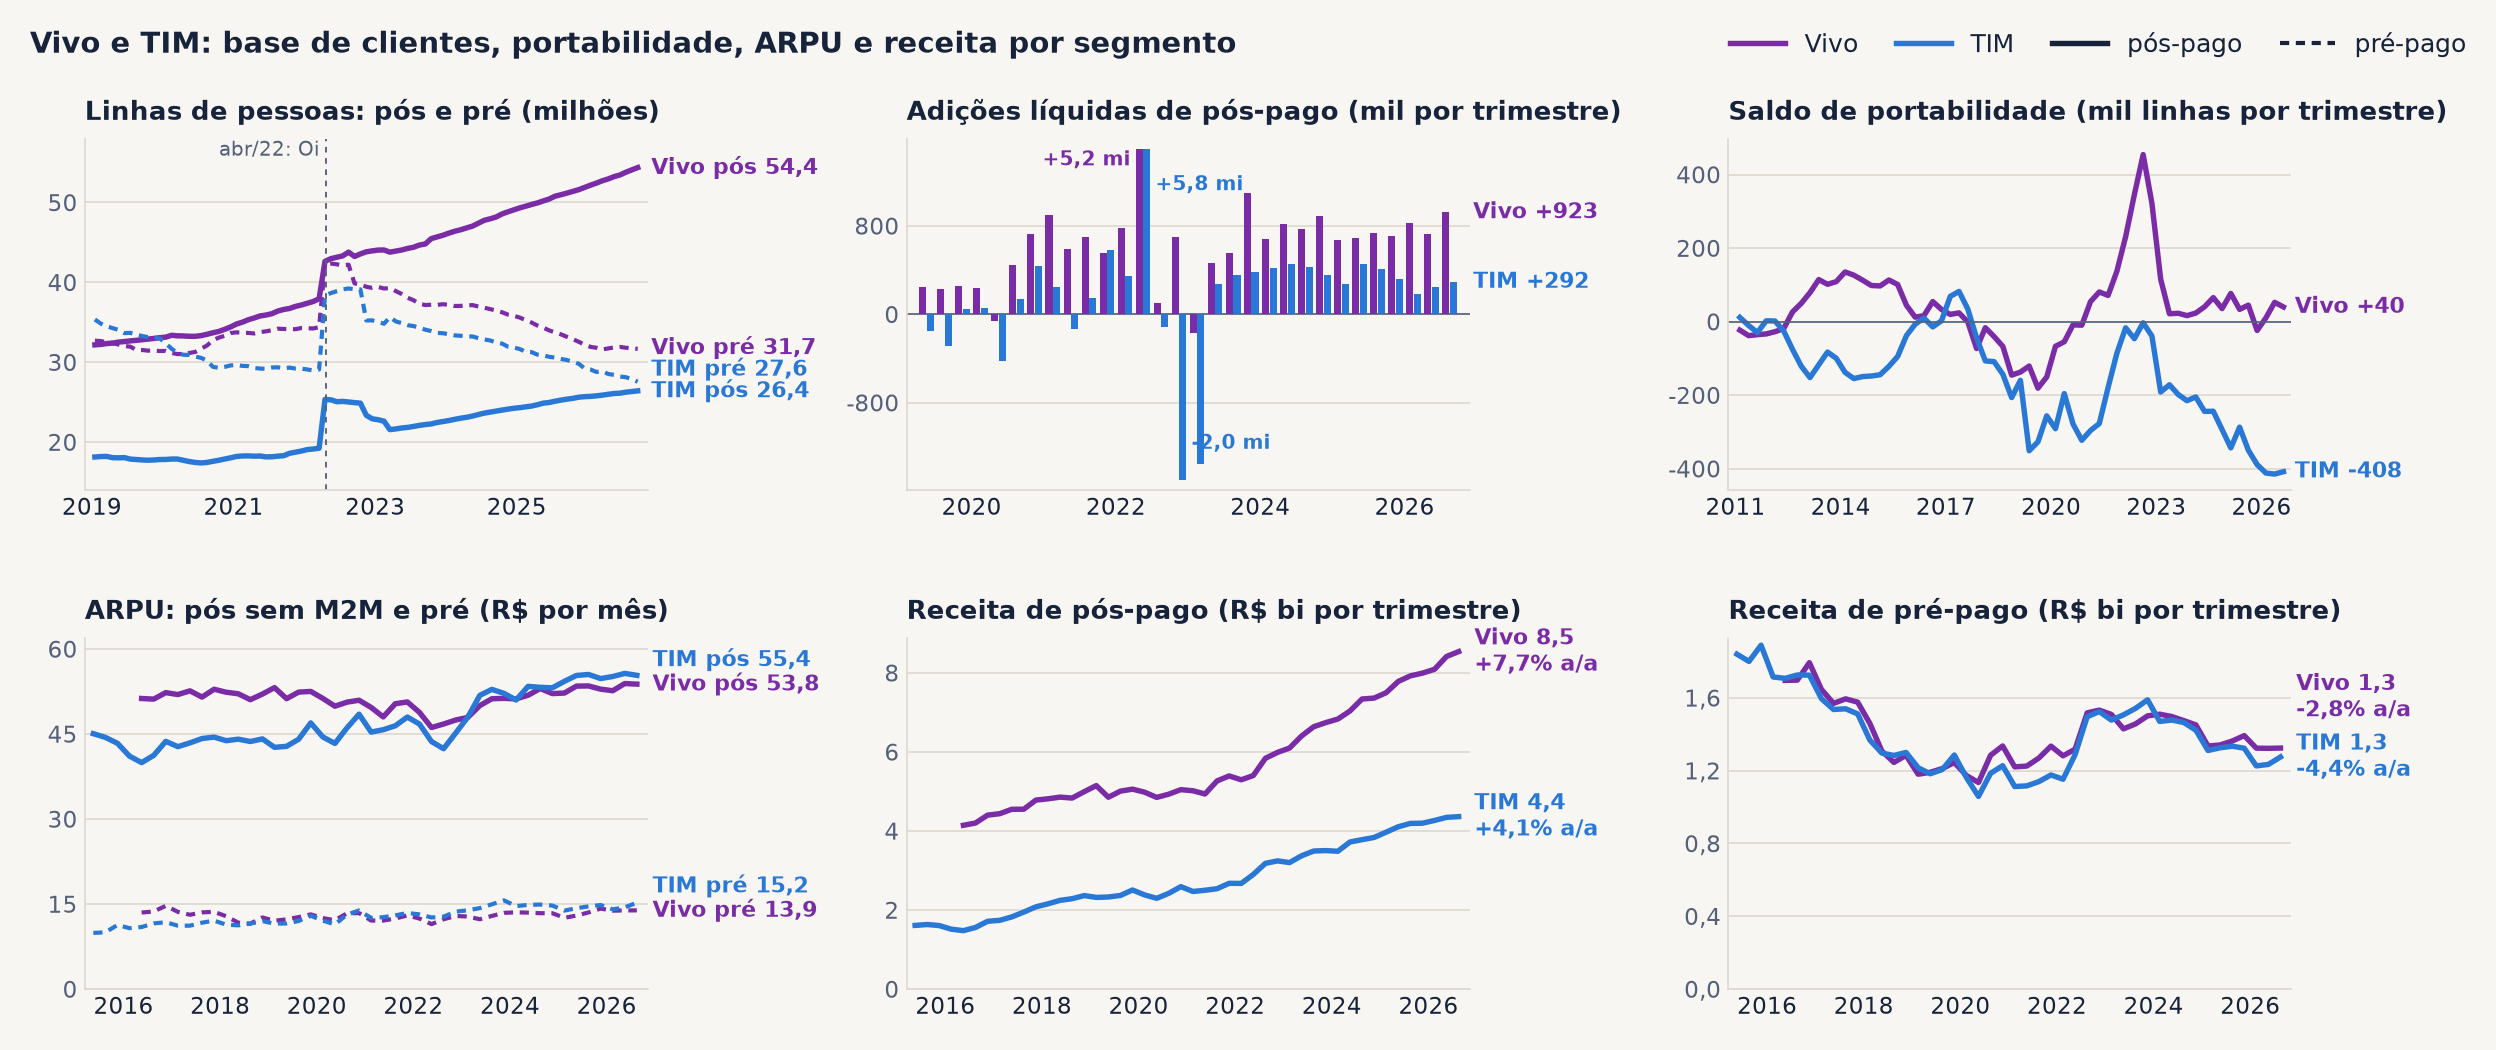
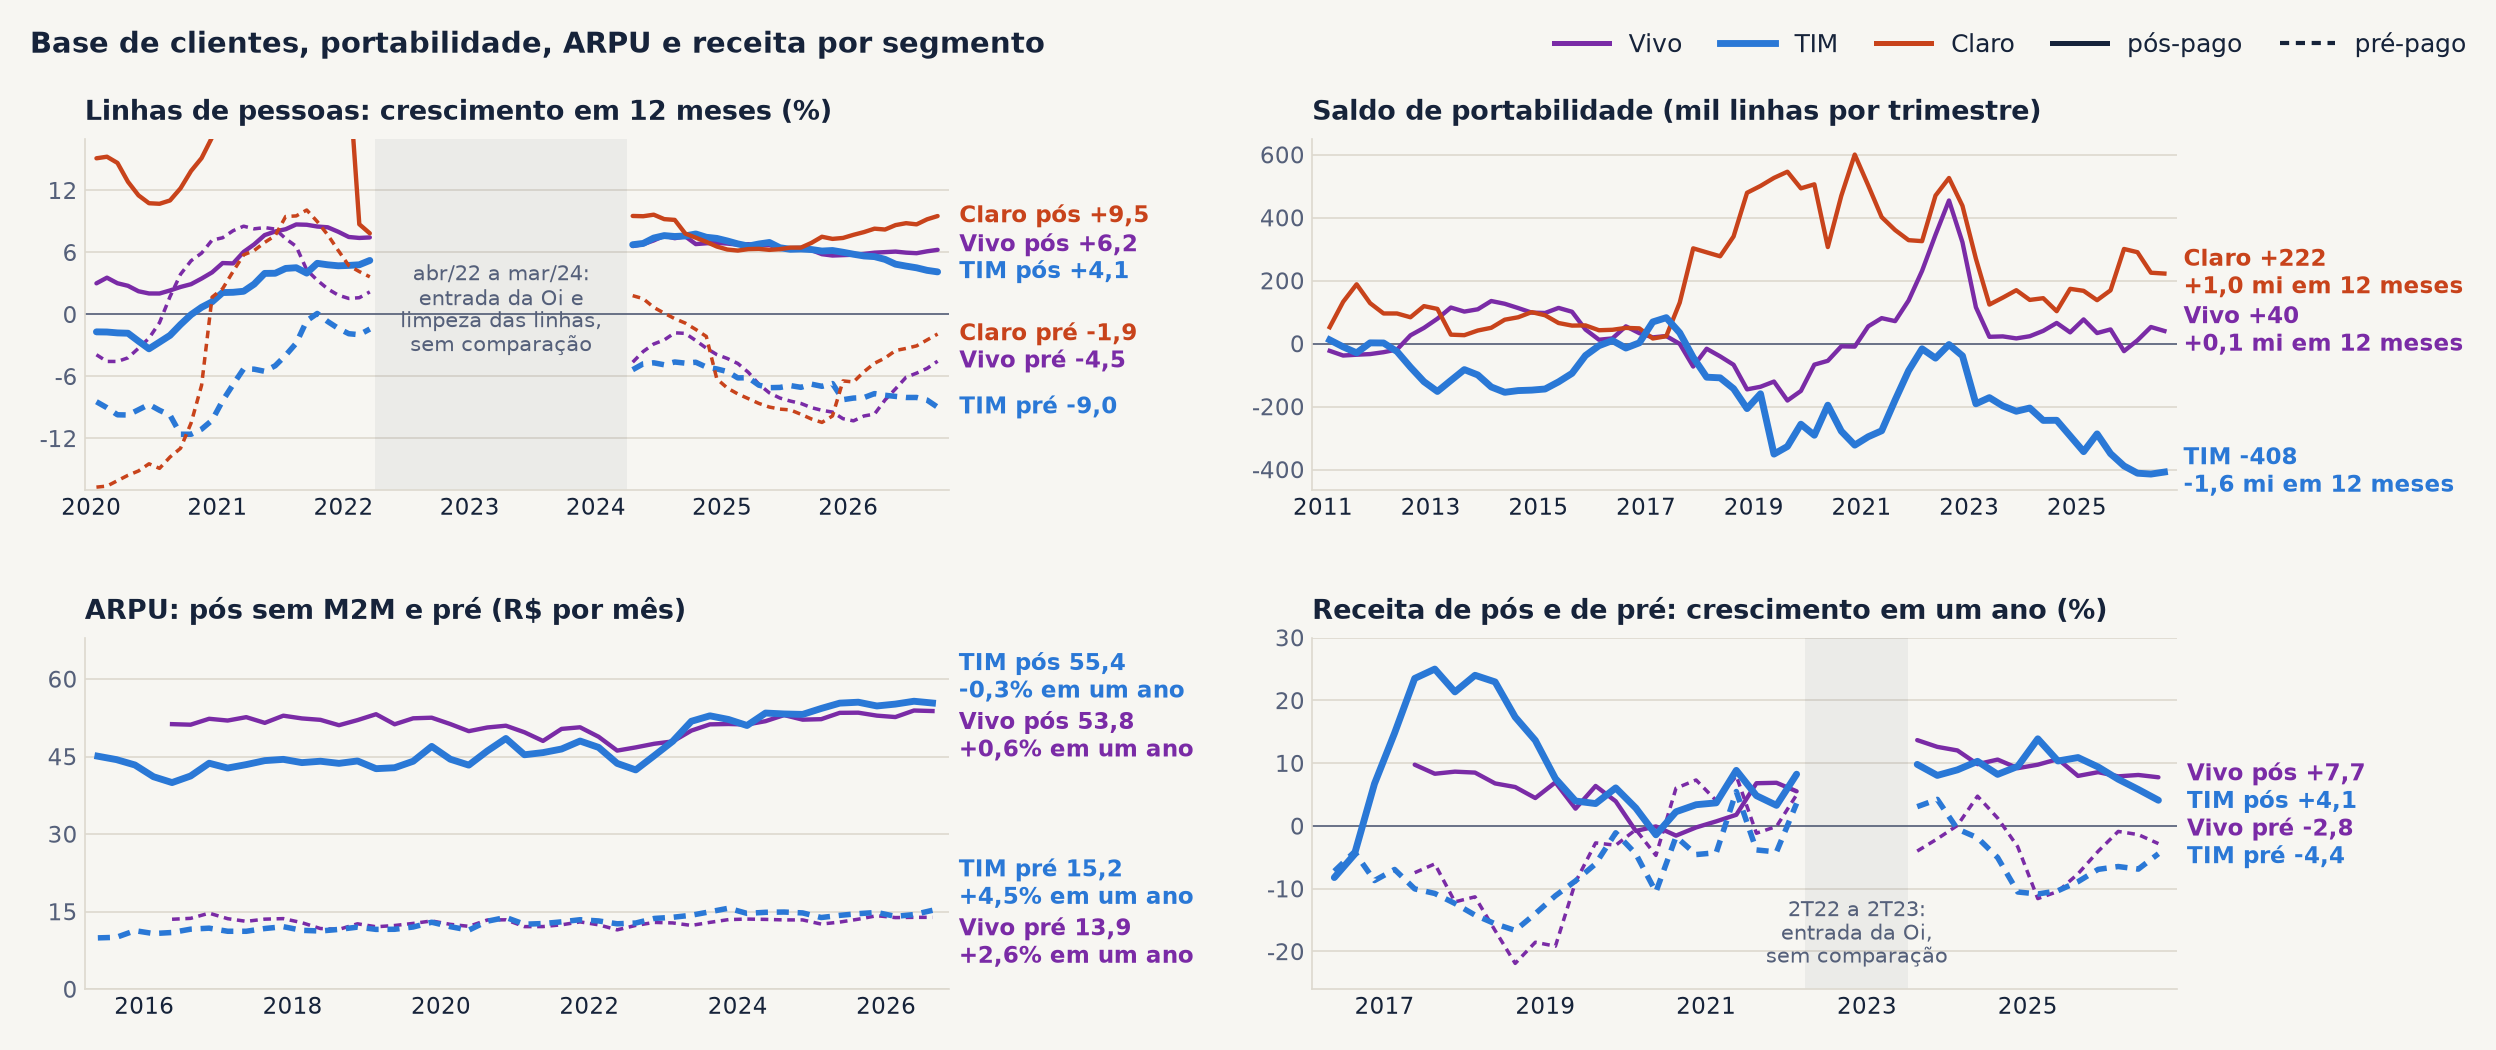
v3.0 · 24/11/2026 19:45 · slide 4 em quatro gráficos, com a Claro
Crescimento das linhas de pós e de pré e saldo de portabilidade de
Vivo, TIM e Claro; ARPU e crescimento da receita de pós e de pré de
Vivo e TIM.

diff --git a/index.html b/index.html
@@ -40,7 +40,7 @@ h1, h2, h3 { font-family:'Space Grotesk', Arial, sans-serif; }
 <div id="palco">
 <section id="capa" class="capa" data-transition="fade">
 <div>
-<p class="chip">v2.9 · 24/11/2026 19:37</p>
+<p class="chip">v3.0 · 24/11/2026 19:45</p>
 </div>
 <div>
 <h1>Telecom Brasil: Vivo e TIM</h1>
@@ -63,11 +63,11 @@ h1, h2, h3 { font-family:'Space Grotesk', Arial, sans-serif; }
 <aside>De 2012 a 2025, empresa inteira: na Vivo a receita cobrada do cliente cresce 4,3% ao ano e a receita líquida 5,3%; na TIM, 2,3% e 3,2%. A diferença, 1,0 ponto ao ano nas duas, é o tributo que caiu de 26,4% para 16,1% da receita cobrada na Vivo e de 24,6% para 12,8% na TIM. Em receita líquida o ganho acumulado é de 14,0% na Vivo e 15,6% na TIM; o degrau da LC 194, do 2T22 ao 1T23, responde por 7,1% e 6,0%, e o resto (6,5% e 9,1%) vem aos poucos, fora das mudanças de lei. Ganho por ano, em pontos: Vivo 2,7 em 2018, 1,6 em 2019, 4,8 em 2022, 3,0 em 2023, 0,7 em 2024, 0,2 em 2025 e zero nos nove meses de 2026; TIM 4,2 em 2017, 1,6 em 2019, 1,7 em 2020, 4,9 em 2022, 5,0 em 2023, -0,4 em 2024, 0,5 em 2025 e 0,2 nos nove meses de 2026. Na receita de serviço móvel, tirando a Oi e o ganho de tributo: Vivo de 5,3% para 3,9% ao ano e TIM de 3,9% para 2,0%. O fator de tributo é da empresa inteira (móvel, fixo e aparelhos) aplicado à receita móvel; em 2012 e 2015 a receita da Vivo inclui a incorporação da Vivo Participações e a compra da GVT, que não mudam a diferença entre líquida e cobrada. Serviços de valor adicionado (aplicativos, leitura digital, vídeo) entram na fatura fora da base do ICMS, com ISS e PIS/Cofins; é contexto, não medida: as empresas não abrem o tributo por serviço. Sinal do tamanho: as autuações estaduais contra a TIM que alegam, entre outros pontos, a não inclusão de SVA na base do ICMS somam R$ 2,6 bi em setembro de 2026, contra R$ 2,2 bi em dezembro de 2025 e R$ 0,2 bi em 2020 (notas de contingências das demonstrações). Tributos sobre a receita cobrada (CVM, empresa inteira: móvel, fixo e aparelhos): Vivo 26,4% no 1T11, 28,4% no 1T17, 21,7% no 2T22, 16,2% no 1T23, 17,4% no 2T23 e 16,1% no 3T26; TIM 24,6% no 1T11, 27,5% no 1T16, 18,9% no 2T22, 14,0% no 1T23 e 12,8% no 3T26. Linha do tempo: em 2016 cerca de 12 estados subiram o ICMS de telecom (RS de 25% para 30%, MG de 25% para 27%, DF de 25% para 28%); RJ de 26% para 28% no fim de 2016; SP ficou em 25% de 1991 a 2022. Em julho de 2017 a Vivo deixa de incluir o ICMS na base do PIS/Cofins. Em novembro de 2021 o STF decide que telecom não pode pagar acima da alíquota geral, com efeito a partir de 2024; a Lei Complementar 194, de 23/06/2022, antecipa o corte (SP de 25% para 18%). Em 2023 cerca de 15 estados sobem a alíquota geral, e em 2024 RJ (20% mais o fundo de combate à pobreza), BA, CE e DF. A lista por estado vem da compilação da Teleco, consultoria do setor; só SP e RJ foram conferidos na lei. A TIM chega a 2011 pela TIM Participações (até o 2T20) e depois pela TIM S.A.; nos trimestres sem consolidado, demonstração individual. Mesma base dos slides sem a Oi e sem o ICMS do deck Móvel Brasil (planilha crescimento_real_movel_oi_icms) e do gráfico de deduções da Vivo de 17/11/2026. Receita da Oi por trimestre cheio: 466 mi na Vivo e 607 mi na TIM no 3T22 (6,0% e 11,8% da receita de serviço móvel). Receita líquida sobre bruta: Vivo de 0,783 para 0,838 e TIM de 0,811 para 0,860 depois do corte, o que soma 7,1% e 6,0% à receita líquida; na TIM o ajuste segue até o 4T23. Vivo, crescimento no ano: 2022, 12,1% reportado, 7,2% sem a Oi e 2,5% sem a Oi e sem o ICMS; 2023, 10,8%, 9,0% e 6,2%; 2024, 8,4% e 7,8% sem o ICMS; 2025, 6,6% e 6,3%; nove meses de 2026, 6,9%. TIM: 2022, 20,2%, 10,1% e 5,7%; 2023, 11,1%, 7,0% e 2,2%; 2024, 6,6% e 7,0%; 2025, 5,4% e 4,9%; nove meses de 2026, 4,7% e 4,6%. No pico: Vivo no 1T23, 15,9% reportado, 8,9% sem a Oi e 1,6% sem os dois; TIM no 3T22, 25,8%, 11,0% e 6,0%. Não separado: o reajuste de preço da base recebida da Oi e a reposição atrasada da inflação, que ficam dentro do crescimento limpo de 2023 e 2024.</aside>
 </section>
 <section id="base" data-transition="fade">
-<p class="olho">ABERTURA · VIVO E TIM: BASE, PORTABILIDADE, ARPU E RECEITA POR SEGMENTO</p>
-<h2 class="titulo">A receita de pós cresce 7,7% na Vivo e 4,1% na TIM só por linhas: o ARPU de pós parou, e a TIM perde 400 mil linhas por trimestre na portabilidade</h2>
-<img class="graf" src="img/v4_base.png" alt="Seis painéis de Vivo e TIM: linhas de pessoas de pós e de pré desde 2019; adições líquidas de pós-pago por trimestre; saldo de portabilidade por trimestre desde 2011; ARPU de pós sem M2M e de pré desde 2015; receita de pós-pago e receita de pré-pago por trimestre">
-<p class="fonte">Fonte: Anatel (linhas de pessoas sem M2M até set/26; portabilidade numérica móvel até o 3T26) e planilhas de RI de Vivo e TIM (receita = ARPU vezes base média). 2T22: entrada dos clientes da Oi; 4T22 e 1T23: desligamento e reclassificação de linhas na TIM.</p>
-<aside>Mesma base dos slides de base, portabilidade e ARPU do deck TMT e do slide de migração do deck Móvel Brasil. Linhas de pessoas (Anatel, sem M2M e maquininhas) em set/26: Vivo 54,4 milhões de pós (+6,2% em 12 meses) e 31,7 milhões de pré (-4,5%); TIM 26,4 milhões de pós (+4,1%) e 27,6 milhões de pré (-9,0%). Em jan/19: Vivo 32,2 de pós e 32,7 de pré; TIM 18,1 e 35,3. Adições líquidas de pós no 3T26: Vivo 923 mil e TIM 292 mil; na média dos quatro últimos trimestres, 798 mil e 261 mil. No 2T22 a entrada da Oi soma 5,2 milhões de linhas de pós na Vivo e 5,8 milhões na TIM; a TIM desliga 2,0 milhões no 4T22 e reclassifica 1,4 milhão no 1T23. Portabilidade: a TIM perde 408 mil linhas no 3T26 e 1,6 milhão em doze meses, contra 198 mil por trimestre em 2023; a Vivo fica perto de zero (+40 mil no 3T26, +79 mil em doze meses) depois do pico de 455 mil no 3T22. ARPU de pós sem M2M no 3T26: TIM R$ 55,4 (-0,3% em um ano) e Vivo R$ 53,8 (+0,6%); pré: TIM R$ 15,2 (+4,5%) e Vivo R$ 13,9 (+2,6%). Receita de pós no 3T26: Vivo R$ 8,5 bi (+7,7%) e TIM R$ 4,4 bi (+4,1%); pré: Vivo R$ 1,3 bi (-2,8%) e TIM R$ 1,3 bi (-4,4%). A receita por segmento é o ARPU divulgado vezes a base média do trimestre, não a linha de receita das companhias; na TIM, a série até o 1T19 é a pro forma da planilha de 2021.</aside>
+<p class="olho">ABERTURA · BASE, PORTABILIDADE, ARPU E RECEITA POR SEGMENTO</p>
+<h2 class="titulo">TIM perde em todas as frentes: 1,6 milhão de linhas na portabilidade em 12 meses, pré -9,0% e receita de pós de 13,9% para 4,1% em seis trimestres</h2>
+<img class="graf" src="img/v4_base.png" alt="Quatro gráficos: crescimento em 12 meses das linhas de pós e de pré de Vivo, TIM e Claro desde 2020; saldo de portabilidade por trimestre das três desde 2011; ARPU de pós sem M2M e de pré de Vivo e TIM desde 2015; crescimento em um ano da receita de pós e de pré de Vivo e TIM">
+<p class="fonte">Fonte: Anatel (linhas de pessoas sem M2M até set/26; portabilidade até o 3T26; Claro inclui a NuCel) e RI de Vivo e TIM (receita = ARPU vezes base média). Faixas cinza: a entrada da Oi e a limpeza das linhas impedem a comparação com um ano antes.</p>
+<aside>Mesma base dos slides de base, portabilidade e ARPU do deck TMT e do slide de migração do deck Móvel Brasil. Linhas de pessoas (Anatel, sem M2M e maquininhas) em set/26, com o crescimento em 12 meses: pós, Claro 44,7 milhões (+9,5%), Vivo 54,4 (+6,2%) e TIM 26,4 (+4,1%); pré, Claro 30,9 (-1,9%), Vivo 31,7 (-4,5%) e TIM 27,6 (-9,0%). Em abr/24, primeiro mês comparável depois da Oi, o pós crescia 9,5% na Claro, 6,6% na Vivo e 6,7% na TIM: a TIM é a única que desacelera desde então. Antes da Oi, em mar/22: Claro 7,8%, Vivo 7,4% e TIM 5,2%. Portabilidade no 3T26: TIM -408 mil, Claro +222 mil e Vivo +40 mil; em doze meses, TIM -1,6 milhão, Claro +1,0 milhão e Vivo +0,1 milhão. A TIM perdia 198 mil por trimestre em 2023 e não tem saldo positivo desde 2017. Receita de pós da TIM, crescimento em um ano: 13,9% no 1T25, 10,3%, 10,9%, 9,4%, 7,4%, 5,8% e 4,1% no 3T26; na Vivo, 9,8%, 10,6%, 8,0%, 8,6%, 7,9%, 8,1% e 7,7%. O ARPU de pós da TIM ia a +6,5% no 1T25 e está em -0,3%. Contraponto: a receita de serviço móvel da TIM ainda cresce 4,0% e a margem EBITDA sobe; o que o slide mostra é perda de base e de ritmo, não queda de receita. ARPU de pós sem M2M no 3T26: TIM R$ 55,4 (-0,3% em um ano) e Vivo R$ 53,8 (+0,6%); pré: TIM R$ 15,2 (+4,5%) e Vivo R$ 13,9 (+2,6%). Receita de pós no 3T26: Vivo R$ 8,5 bi (+7,7%) e TIM R$ 4,4 bi (+4,1%); pré: Vivo R$ 1,3 bi (-2,8%) e TIM R$ 1,3 bi (-4,4%). A receita por segmento é o ARPU divulgado vezes a base média do trimestre, não a linha de receita das companhias; na TIM, a série até o 1T19 é a pro forma da planilha de 2021.</aside>
 </section>
 <section id="rol" data-transition="fade">
 <p class="olho">1 · DESACELERAÇÃO DA RECEITA LÍQUIDA</p>

diff --git a/README.md b/README.md
@@ -1,3 +1,3 @@
 # Telecom Brasil: Vivo e TIM
 
-Deck de telecom (v2.9 · 24/11/2026 19:37): o setor contra a inflação e o PIB, receita, margem, EBITDA, capex e arrendamento, lucro, payout, Fistel e valuation de Vivo e TIM.
+Deck de telecom (v3.0 · 24/11/2026 19:45): o setor contra a inflação e o PIB, receita, margem, EBITDA, capex e arrendamento, lucro, payout, Fistel e valuation de Vivo e TIM.
